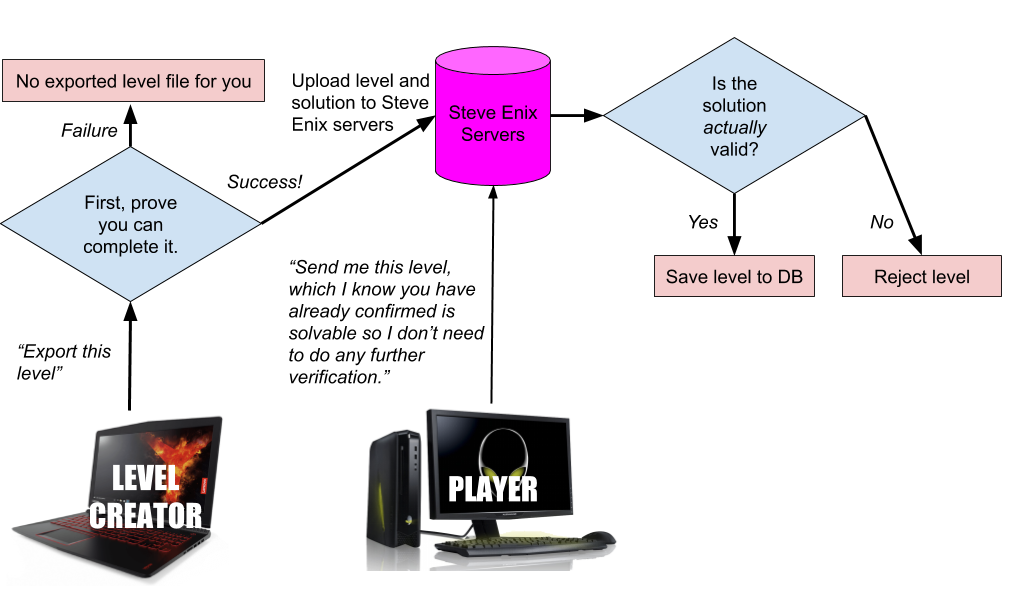
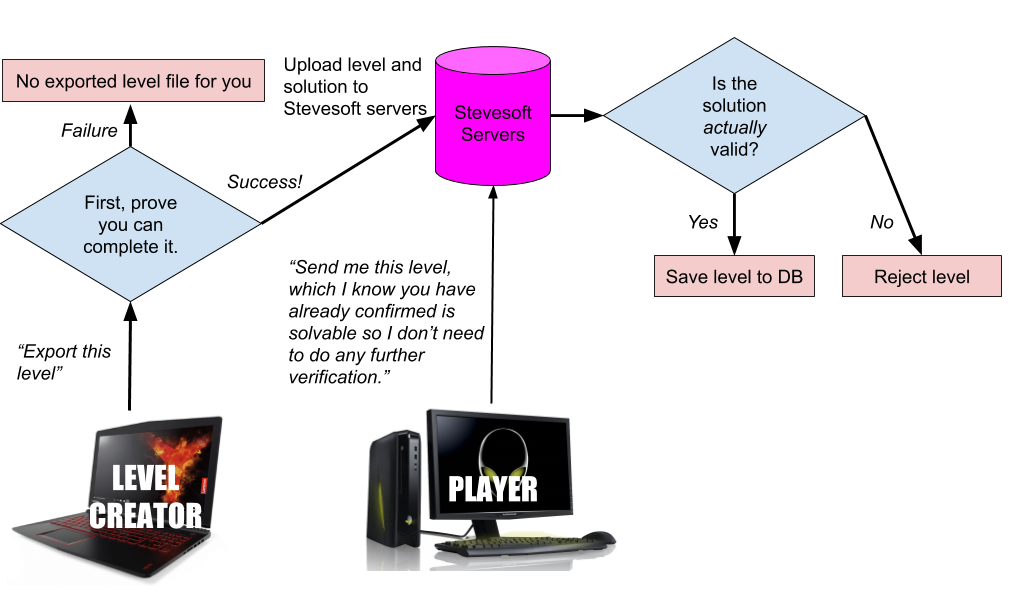
w

Changed region(s): [[0.2741, 0.0933, 0.5177, 0.2177]]

diff --git a/_posts/2100-01-01-crypto-game.md b/_posts/2100-01-01-crypto-game.md
@@ -1,21 +1,25 @@
 ---
 layout: post
-title: Preventing impossible game levels using cryptography
-tags: [The Steve Steveington Chronicles]
-og_image: TODO
+title: Preventing impossible gamemaker levels using cryptography
+tags: [The Steve Steveington Chronicles, Security]
+og_image: https://robertheaton.com/images/levels-cover.png
 published: false
 ---
 You and your good buddy, Steve Steveington, have almost finished work on your company's new video game. It's a banal 2-D platformer in which you run from left to right and collect coins or rings or some other kind of doodad. At the end you rescue a Princess or save a city or whatever, who cares, the player has already given you their money and you don't do refunds.
 
-You've been creating your mediocrepiece in your offices in the 19th Century Literature section of the San Francisco Public Library, the same birthplace as all your previous companies (*[start here](https://robertheaton.com/2018/07/09/how-tinder-keeps-your-location-a-bit-private/) and work forwards to catch up*). The library is currently closed to the general public because of the Covid-19 pandemic, but you've reached an understanding with the security guard whereby he doesn't try to be a hero and you don't send his husband any of the footage from the broom cupboard CCTV camera.
+<img src="/images/levels-cover.png" />
 
-With the game almost finished, you had been working hard on crafting your email spam campaigns. But then, out of nowhere, you were struck by an interesting disaster. Your pesky and valued colleagues, Kate Kateberry and Otekah Wrigglesworth, noticed a grave flaw in your game's security model. Now your fragile ego and the life of Steve Enix, your fledgling company, both depend on whether you're able to solve it.
+You've been creating your mediocrepiece in your offices in the 19th Century Literature section of the San Francisco Public Library, the same birthplace as all your previous companies (*[start here](https://robertheaton.com/2018/07/09/how-tinder-keeps-your-location-a-bit-private/) and work forwards to catch up*). The library is currently closed to the general public because of the Covid-19 pandemic, but you've reached an understanding with the security guard whereby he doesn't try to be a hero and you stop being mean about him on Twitter.
+
+With the game almost finished, you had been working hard on crafting your email spam campaigns. But then, out of nowhere, you were struck by an interesting disaster. Your pesky and valued colleagues, Kate Kateberry and Otekah Wrigglesworth, noticed a grave flaw in your game's security model. Now your fragile ego and the life of Stevesoft, your fledgling company, both depend on whether you're able to solve it.
 
 ----
 
-The root cause of the flaw is that Steve Enix is a bootstrapped company on a shoe-string budget. This means that you don't have any money to pay for level designers. You also don't have any money to pay for core engine programmers, but you've reached an understanding with Kate and Otekah whereby they provide you with mediocre code and stale water-cooler banter and you don't say anything about anything to the IRS. You think it was John le Carre who said that blackmail is more effective than bribery; he forgot that it's also much cheaper.
+The root cause of the flaw is that Stevesoft is a bootstrapped company on a shoe-string budget. This means that you don't have any money to pay for level designers. You also don't have any money to pay for core engine programmers, but you've reached an understanding with Kate and Otekah whereby they provide you with mediocre code and stale water-cooler banter and you don't say anything about anything to the IRS. You think it was John le Carre who said that blackmail is more effective than bribery; he forgot that it's also much cheaper.
 
 To get around your lack of level designers you've decided to centre your game around user-generated levels, built by your players using an in-game level editor in the style of *Little Big Planet* and *Super Mario Maker*. This saves precious money and means that if your players don't have fun then it's their own stupid fault. You want players to be able to email their levels to each other as level files, instead of downloading them from a centralized server. This retro mode of discovery makes you nostalgic for the days when you shared Nintendo cartridges with your friends and hadn't yet been so thoroughly corrupted by a futile lust for fame and money and internet points. It's also substantially cheaper than running a centralized server.
+
+<img src="/images/levels-check-out.png" />
 
 You have incredibly low standards and expectations for the levels produced by your community, and the only quality control you want to inject is that every user-created level must be guaranteed to be completable. You don't want anyone stuck in a world where the only exit is the other side of an inoperable door. You have no qualms about selling turds to rubes who don't read Steam reviews, but your shriveled conscience does still require that the turds be technically functional.
 
@@ -35,9 +39,7 @@ She listens as Steve describes his brilliant idea for preventing players from cr
 
 As Kate gets more animated and Steve gets more grumpy, you and Otekah put your Reddit tabs to one side and join the ruckus. Would anyone really reverse engineer our entire file format just to mess with our game? you ask. [Have you met anyone on the internet?][logic] Otekah replies.
 
-Tensions rise; no progress is made; tempers flare; tempus fugit. Lunchtime comes and goes; blood sugar levels wax and wane and wane and wane. In age-old Steve Enix tradition you agree to hash things out in the Systems Design Thunderdome, a safe space in which combatants can hurl prejudices and ad hominems without fear of retribution from HR.
-
-[PIC of thunderdome]
+Tensions rise; no progress is made; tempers flare; tempus fugit. Lunchtime comes and goes; blood sugar levels wax and wane and wane and wane. In age-old Stevesoft tradition you agree to hash things out in the Systems Design Thunderdome, a safe space in which combatants can hurl prejudices and ad hominems without fear of retribution from HR.
 
 You, Steve, Kate and Otekah sit down to battle.
 
@@ -53,7 +55,7 @@ Kate and Otekah agree that this would prevent level creators from luring players
 
 You're up next. Everyone should take a step back, you say, since the answer is obvious and you can't believe no one else has thought of it. All you need to do is have the level editor encrypt the solution before inserting it into the exported level file. When a player loads the level, the game decrypts the solution and runs it through the level, as Steve just suggested.
 
-Otekah agrees that this sounds like a good solution, IF YOU'RE AN IDIOT. "Encryption" isn't magic. Since the game is running on the player's computer, anything the game can do the player can do too. If the game can decrypt the solution, the player can too. All they need to do is reverse engineer the decryption steps that the game performs. You can obfuscate your code and use strange types of encryption and generally make life awkward for them, but you can't make it impossible. Eventually you run into the problem that people on the internet are psychotic monsters who will break anything and everything that they are mathematically able to.
+Otekah agrees that this sounds like a good solution, IF YOU'RE AN IDIOT. "Encryption" isn't magic. Since the game is running on the player's computer, anything the game can do the player can do too. If the game can decrypt the solution, the player can too. If the game contains the decryption key for the solutions, the player can pull the game apart, find the key, figure out what decryption steps the game performs, and run these steps themselves. You can obfuscate your code and try to hide your keys and generally make life awkward for the player, but you can't make decryption impossible. Eventually you run into the problem that people on the internet are psychotic monsters who will break anything and everything that they are mathematically able to.
 
 You sulkily concede that Otekah is correct but note that she hasn't exactly been helping.
 
@@ -77,13 +79,13 @@ Steve opens an eye and mumbles a begrudging acceptance.
 
 ## 5. Can we store levels in a centralized database?
 
-You have a brainwave. The team has been fixated on a model in which players send each other levels directly. Admittedly, this does have a righteous, retro feel to it that reminds you of a simpler, more morally defensible time. But what if you instead hosted all player-created levels in a centralized database? When a player creates a level, they prove that they can solve it. The level editor sends their level and their solution to the centralized Steve Enix server. The server plays through their solution, verifies that it does indeed complete the level, and saves the level to a database. Players can download levels from the server, safe in the knowledge that Steve Enix has verified that the level is completable. Even if a level creator builds a bootleg level editor that doesn't force them to complete a level before it sends it to the server, the server would still validate their solution and block their level if it didn't pass the mustard. As gravy on this already delicious cake, Steve Enix can use the central level index to collect and sell invasive personal data about its users.
+You have a brainwave. The team has been fixated on a model in which players send each other levels directly. Admittedly, this does have a righteous, retro feel to it that reminds you of a simpler, more morally defensible time. But what if you instead hosted all player-created levels in a centralized database? When a player creates a level, they prove that they can solve it. The level editor sends their level and their solution to the centralized Stevesoft server. The server plays through their solution, verifies that it does indeed complete the level, and saves the level to a database. Players can download levels from the server, safe in the knowledge that Stevesoft has verified that the level is completable. Even if a level creator builds a bootleg level editor that doesn't force them to complete a level before it sends it to the server, the server would still validate their solution and block their level if it didn't pass the mustard. As gravy on this already delicious cake, Stevesoft can use the central level index to collect and sell invasive personal data about its users.
 
 <img src="/images/levels-centralized-server.png" />
 
-Steve is just about awake from his textbook concussion. He agrees that this would be the most technically straightforward solution. However, since the company is funded by his mum's credit card that she still hasn't reported as stolen, he's the closest thing that Steve Enix has to a CFO. He doesn't want to have to pay to develop and deploy a whole jumble of database infrastructure. Cloud computing is quite cheap nowadays, but Steve Enix has very little money and it's only a matter of time before his mum notices all the charges the gang have been racking up on her AmEx.
+Steve is just about awake from his textbook concussion. He agrees that this would be the most technically straightforward solution. However, since the company is funded by his mum's credit card that she still hasn't reported as stolen, he's the closest thing that Stevesoft has to a CFO. He doesn't want to have to pay to develop and deploy a whole jumble of database infrastructure. Cloud computing is quite cheap nowadays, but Stevesoft has very little money and it's only a matter of time before his mum notices all the charges the gang have been racking up on her AmEx.
 
-Steve concedes that the solution to this level integrity conundrum will likely require Steve Enix to run some servers of some sort, but he'd like to keep them as cheap and lightweight as possible. Centralized servers that have to store and serve up every level that your players create will be too costly in both blood and treasure. Kate and Otekah agree. They couldn't give two farts about Steve's mum or her Amex, but they don't want to have to sign up for any kind of Steve Enix Network Experience Center.
+Steve concedes that the solution to this level integrity conundrum will likely require Stevesoft to run some servers of some sort, but he'd still like to keep them as cheap and lightweight as possible. Centralized servers that have to store and serve up every level that your players create will be too costly in both blood and treasure. Kate and Otekah agree. They couldn't give two farts about Steve's mum or her Amex, but they don't want to have to sign up for any kind of Stevesoft Network Experience Center.
 
 The Thunderdome continues.
 
@@ -91,11 +93,11 @@ The Thunderdome continues.
 
 What about public key encryption? says Kate. Steve says that she'll need both to be more specific and to give a quick refresher in public-key cryptography, for the others. Kate obliges, patronizingly. Let's start from the top, with some definitions.
 
-An *encryption algorithm* is a method of scrambling data. For example, in simple alphabet-rotation encryption, the algorithm is that every letter in a message is rotated forward in the alphabet by a fixed number of places. Next, an *encryption key* is an additional, secret input into the algorithm that determines its output. In alphabet-rotation encryption, the key is the number of spaces that each letter should be shifted. In order to produce an encrypted message or turn it back into *plaintext*, you need the appropriate key.
+An *encryption algorithm* is a method of scrambling data. For example, in simple alphabet-rotation (or [*Caesar Cipher*](https://en.wikipedia.org/wiki/Caesar_cipher)) encryption, the algorithm is that every letter in a message is rotated forward in the alphabet by a fixed number of places. An *encryption key* is an additional, secret input into the algorithm that determines its output. In alphabet-rotation encryption, the key is the number of spaces that each letter should be shifted. In order to produce an encrypted message or turn it back into *plaintext*, you need the appropriate key.
 
 <img src="/images/levels-algo-key.png" />
 
-Before we talk about public key encryption, let's talk about its much simpler opposite: *symmetric key encryption*. In symmetric key encryption the same key is used for both encrypting and decrypting a message. Alphabet-rotation encryption is symmetric; to encrypt a message you move each letter forward by a fixed amount, and to decrypt it you move each letter back by that same amount. If I want to send you message encrypted using symmetric key encryption then we need to agree on a shared key ahead of time. This type of encryption has its uses (such as in the post-*key exchange* phase of [the TLS protocol][https]), but I can't think of any way to use it to solve our problem.
+Before we talk about public key encryption, let's talk about its much simpler opposite: *symmetric key encryption*. In symmetric key encryption the same key is used for both encrypting and decrypting a message. Alphabet-rotation encryption is symmetric; to encrypt a message you move each letter forward by a fixed amount, and to decrypt it you move each letter back by that same amount. If I want to send you message encrypted using symmetric key encryption then we need to agree on a shared key ahead of time. This type of encryption has its uses (such as in the *post-key exchange* phase of [the TLS protocol][https]), but I can't think of any way to use it to solve our problem.
 
 <img src="/images/levels-sym-enc.png" />
 
@@ -103,7 +105,7 @@ Public key cryptography is much more interesting, because different keys are use
 
 <img src="/images/levels-pub-enc.png" />
 
-One key in the pair is designated as the *public key*, and the other as the *private key*. The public key is entirely nonsensitive. It can be published and distributed freely to anyone, even someone who the keys' creator doesn't trust. The private key is, of course, private, and so is kept secret. Now anyone who wants to send the keys' creator a secret message can encrypt it using the creator's published public key. Neither the sender nor the recipient needs to worry about the encrypted message being intercepted. An attacker could try get their hands on both the encrypted message and the public key used to encrypt it. However, they would be unable to decrypt the message without the corresponding private key. So long as the private key remains truly private, messages encrypted with the public key remain truly secure.
+One key in the pair is designated as the *public key*, and the other as the *private key*. The public key is entirely nonsensitive. It can be published and distributed freely to anyone, even someone who the keys' creator doesn't trust. The private key is, of course, private, and so is kept secret. Now anyone who wants to send the keys' creator a secret message should encrypt it using the creator's published public key. Neither the sender nor the recipient needs to worry about the encrypted message being intercepted. An attacker could get their hands on both the encrypted message and the public key used to encrypt it. However, they would be unable to decrypt the message without the corresponding private key. So long as the private key remains truly private, messages encrypted with the public key remain truly secure.
 
 <img src="/images/levels-attacker-pub.png" />
 
@@ -111,27 +113,27 @@ Yes yes we all knew that, grumps Steve. How does any of it help us?
 
 It helps us, says Kate, because it means that we can encrypt the solution to a level in a way that we can decrypt but our players can't. This means that it's safe for us to include the solution in our level files. To set this up, we generate a public/private keypair and package the public key with our game. When a level creator creates a level, they demonstrate a solution to it. The level editor records this solution; encrypts it using our public key; and includes the encrypted solution in the level file that it exports. The creator emails the file to their friends to play. The level file still includes a solution, but now it's encrypted so players can't access it. This is good.
 
-However, if players can't access the solution, this means that our game can't either. This in turn means that the game can't play through the level to check whether the solution is valid. To get round this, the game sends both the level and the solution over the internet to a server run by Steve Enix...
+However, if players can't access the solution, this means that our game can't either. This in turn means that the game can't play through the level to check whether the solution is valid. To get round this, the game sends both the level and the solution over the internet to a server run by Stevesoft...
 
-…then the server decrypts the solution, sends it back to the game, and the game validates it! I'd been thinking of something like that! you say, feigning support and making a grab for some of the credit.
+...then the server decrypts the solution, sends it back to the game, and the game validates it! I'd been thinking of something like that! you say, feigning support and making a grab for some of the credit.
 
 Kate sighs. No, doofus, she says. If we did that then the player could just send us the encrypted solution themselves, pretending to be a copy of the game. We'd send them back the decrypted solution, then they could use it to cheat their way through the level again. Instead, we need to have our server decrypt the solution (using our private key), then, still on the server, run the solution through the level to check if it's valid. Finally, the server sends a response back to the game saying whether the encrypted solution was valid or not, but containing no information about what the solution actually was.
 
 <img src="/images/levels-pub-key-in-practice.png" />
 
-You try to claim that this is all what you meant, but no one believes you. You go back on the offensive, pointing out that it would be inefficient to force the Steve Enix server to play through the level every time someone wanted to play it. Instead, the game client should save the results of each verification it requests from Steve Enix so that it only has to verify each level once. Plus, the Steve Enix servers should save the results of their solution play-throughs and store them in a cache. Then if the servers are asked to verify a level and a solution that they've already seen, they can read the result out of the cache without having to play through it again.
+You try to claim that this is all what you meant, but no one believes you. You go back on the offensive, pointing out that it would be inefficient to force the Stevesoft server to play through the level every time someone wanted to play it. Instead, the game client should save the results of each verification it requests from Stevesoft so that it only has to verify each level once. Plus, the Stevesoft servers should save the results of their solution play-throughs and store them in a cache. Then if the servers are asked to verify a level and a solution that they've already seen, they can read the result out of the cache without having to play through it again.
 
-Aren't we just back at my centralized database solution? asks Otekah. There are some superficial similarities, you reply, but this approach has several key advantages. First, we don't have to store the entire contents of each level in our database, because we're only responsible for verifying levels, not distributing them. Storage is cheap, but Steve Enix is broke. Second, and most important, our server isn't a critical, central repository of any persistent data. In your centralized database approach, if our server got wiped and we had to rebuild it from scratch, we'd lose all of our players' levels and hard work. Obviously we should keep backups of our database and run multiple redundant copies and all of that dorky stuff, but I think we all know that none of us can be bothered. However, in the public key cryptography approach, our servers don't need to be anything like as stable and reliable. In this world, if our servers get wiped then all we lose is our cache of levels that we've previously verified. This would be irritating, but all it would mean is that we have to re-run our verification the next time someone asked us the verify a level, instead of reading a previous calculated result straight out of our cache. None of the data that we store is critical.
+Aren't we just back at my centralized database solution? asks Otekah. There are some superficial similarities, you reply, but this approach has several key advantages. First, we don't have to store the entire contents of each level in our database, because we're only responsible for verifying levels, not distributing them. Storage is cheap, but Stevesoft is broke. Second, and most important, our server isn't a critical, central repository of any persistent data. In your centralized database approach, if our server got wiped and we had to rebuild it from scratch, we'd lose all of our players' levels and hard work. Obviously we should keep backups of our database and run multiple redundant copies and all of that dorky stuff, but I think we all know that none of us can be bothered. However, in the public key cryptography approach, our servers don't need to be anything like as stable and reliable. In this world, if our servers get wiped then all we lose is our cache of levels that we've previously verified. This would be irritating, but all it would mean is that we have to re-run our verification the next time someone asked us to verify a level, instead of reading a previous calculated result straight out of our cache. None of the data that we store is critical.
 
 ## 7. Can we use public-key cryptography? Take 2
 
 Otekah hems and haws then hurries to the whiteboard, which is actually just the library wall plus a pot of sharpies. What if, she says, we inverted this approach? Instead of validating a level's solution when a player wants to play it, we instead validate it when a creator creates it.
 
-When a creator wants to export a level, they demonstrate a solution, as per usual. But this time the level editor immediately sends the level and its solution to the Steve Enix servers. The server plays through the solution. If it is valid, it sends the level creator back a cryptographic "seal of approval", certifying that the level is solvable. The level editor exports the level, but instead of attaching the solution or an encrypted version of the solution, it attaches the seal of approval.
+When a creator wants to export a level, they demonstrate a solution, as per usual. But this time the level editor immediately sends the level and its solution to the Stevesoft servers. The server plays through the solution. If it is valid, it sends the level creator back a cryptographic "seal of approval", certifying that the level is solvable. The level editor exports the level, but instead of attaching the solution or an encrypted version of the solution, it attaches the seal of approval.
 
 <img src="/images/levels-seal-of-approval.png" />
 
-Finally, when a player loads a level, the game checks to see whether the level file contains a valid seal. If it does, the game knows that Steve Enix has played through the level and certified it to be solvable. If it does not, it rejects it. Everyone is safe; job done.
+Finally, when a player loads a level, the game checks to see whether the level file contains a valid seal. If it does, the game knows that Stevesoft has played through the level and certified it to be solvable. If it does not, it rejects it. Everyone is safe; job done.
 
 That sounds nice, says Steve. But how are you generating these magic seals of approval? Surely the noxious douchebags who play our game will figure out how to forge them too?
 
@@ -143,7 +145,7 @@ First, you take the message that you want to approve and encrypt it using your *
 
 <img src="/images/levels-signing.png" />
 
-We can use this technique to generate cryptographic seals of approval for level files, once their creator proves to us that they can be solved. When a level creator wants to export a level, their level editor sends their level and solution to our server. Our server verifies that the given solution does indeed complete the level, and if it does, it uses our private key to sign the contents of the level and sends the signature back to the level creator. The creator's level editor attaches the signature to the level file. When a player loads the level, their game uses the Steve Enix public key (bundled with the game) to decrypt the signature. If it matches the contents of the level file, the game knows that Square Enix has verified that the level is solvable. Signatures can't be forged, because they can only be generated using our private key, which only we have access to. Signatures can't even be transferred from a valid level to an invalid one, because the decrypted signature has to match exactly the contents of the level.
+We can use this technique to generate cryptographic seals of approval for level files, once their creator proves to us that they can be solved. When a level creator wants to export a level, their level editor sends their level and solution to our server. Our server verifies that the given solution does indeed complete the level, and if it does, it uses our private key to sign the contents of the level and sends the signature back to the level creator. The creator's level editor attaches the signature to the level file. When a player loads the level, their game uses the Stevesoft public key (bundled with the game) to decrypt the signature. If it matches the contents of the level file, the game knows that Squaresoft has verified that the level is solvable. Signatures can't be forged, because they can only be generated using our private key, which only we have access to. Signatures can't even be transferred from a valid level to an invalid one, because the decrypted signature has to match exactly the contents of the level.
 
 <img src="/images/levels-signing-game.png" />
 
@@ -151,9 +153,9 @@ I hear you snark - why is this any better than using our public key to encrypt t
 
 Second, it mitigates the consequences of our private key getting stolen. In the previous approach, anyone who hacked our systems and stole a copy of our private key would be able to use the key to decrypt the solution to any previously-published level. This would be a catastrophe. However, the second, signing approach doesn't suffer from this problem. We don't need to attach an encrypted copy of the solution to every level - all we need to attach is a harmless cryptographic signature.
 
-That's all true, says Kate, but I still think that my encryption approach is better. If our private key gets stolen then it's undeniably annoying that players can cheat and get the solution to all levels, but at least we'll still have the ability to tell non-cheating players whether a level *has* a solution or not. In your signing solution, if our private key gets stolen then the thief could use it to generate signatures for impossible levels. We would have to generate a new keypair; distribute its public key to all game clients; and start using that to sign all new levels instead. However, we would now have no idea whether any level signed with our old, compromised key is truly valid. Players have no way to tell the difference between valid levels that were legitimately signed by Steve Enix before the compromise, and invalid levels that were sneakily signed by an attacker after it. They'll just have to play and hope that the level is valid.
+That's all true, says Kate, but I still think that my encryption approach is better. If our private key gets stolen then it's undeniably annoying that players can cheat and get the solution to all levels, but at least we'll still have the ability to tell non-cheating players whether a level *has* a solution or not. In your signing solution, if our private key gets stolen then the thief could use it to generate signatures for impossible levels. We would have to generate a new keypair; distribute its public key to all game clients; and start using that to sign all new levels instead. However, we would now have no idea whether any level signed with our old, compromised key is truly valid. Players have no way to tell the difference between valid levels that were legitimately signed by Stevesoft before the compromise, and invalid levels that were sneakily signed by an attacker after it. They'll just have to play and hope that the level is valid.
 
-Plus, it's not necessarily true that your signing solution will cause less load on our servers than my encryption one. In my version, we have to make one validation request whenever a player wants to play a level for the first time. If 100 players want to play a level, we'll make 100 validation requests, but if no one plays a level, we never need to validate it. In your solution, we always make 1 validation request for every level as soon as its created. If lots of levels get created but never played, your solution will cause more load on our servers.
+Plus, it's not necessarily true that your signing solution will cause less load on our servers than my encryption one. In my version, we have to make one validation request whenever a player wants to play a level for the first time. If 100 players want to play a level, we'll make 100 validation requests, but if no one plays a level, we never need to validate it. In your solution, we always make 1 validation request for every level as soon as it's created. If lots of levels get created but never played, your solution will cause more load on our servers.
 
 A final difference between our solutions is that my encryption solution allows level creators to create and export levels even when their internet isn't working. This is because all they need in order to create a level file is our public key in order to encrypt their solution. However, my solution does require *players* to have an internet connection in order to play a level so that they can send it to our servers and we can validate the encrypted solution. Your solution is the opposite - creators need an internet connection when they want to export a level so that we can validate their solution and give them a signature, but players don't need an internet connection in order to use our public key to validate this signature.
 
